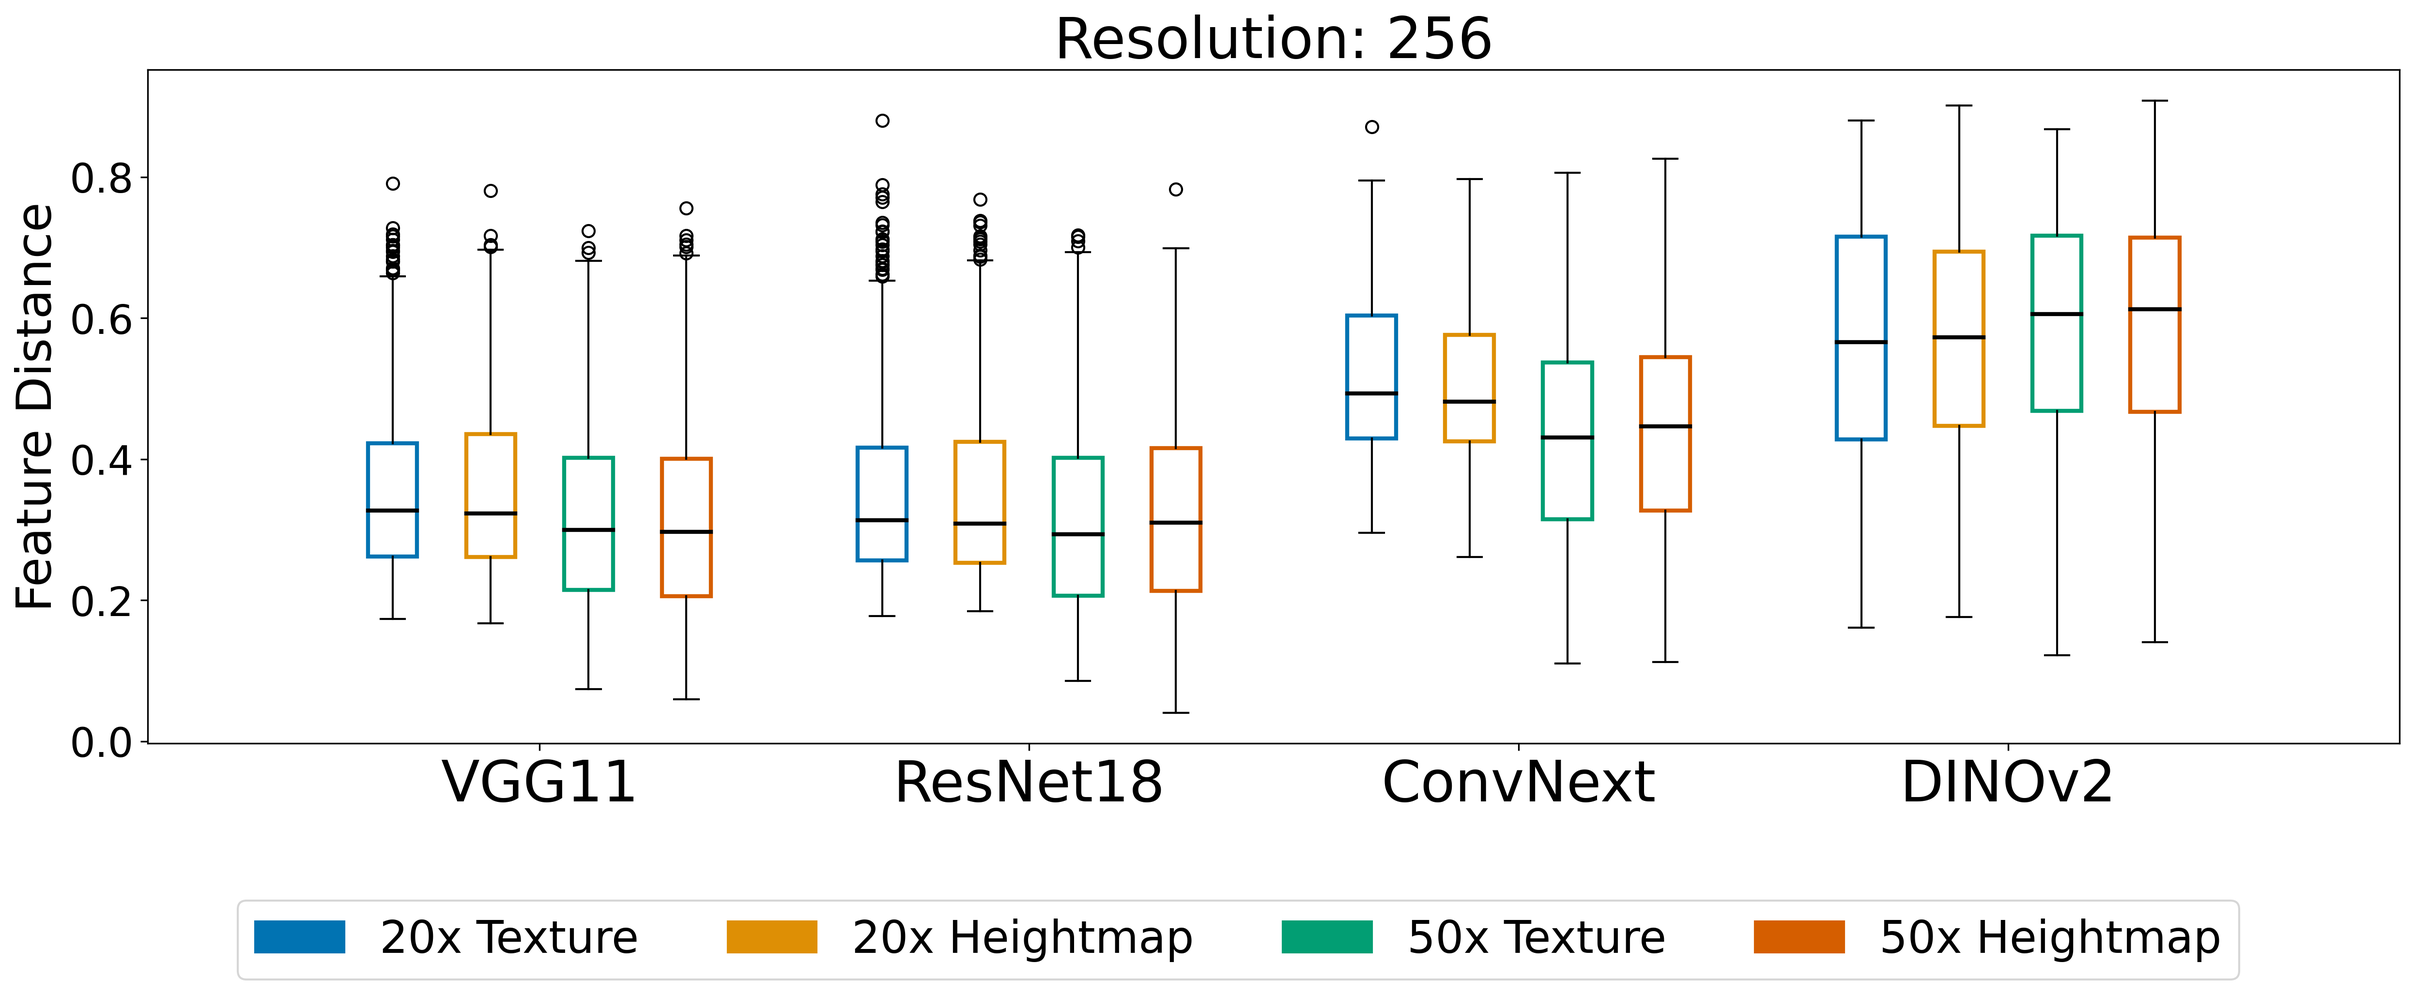
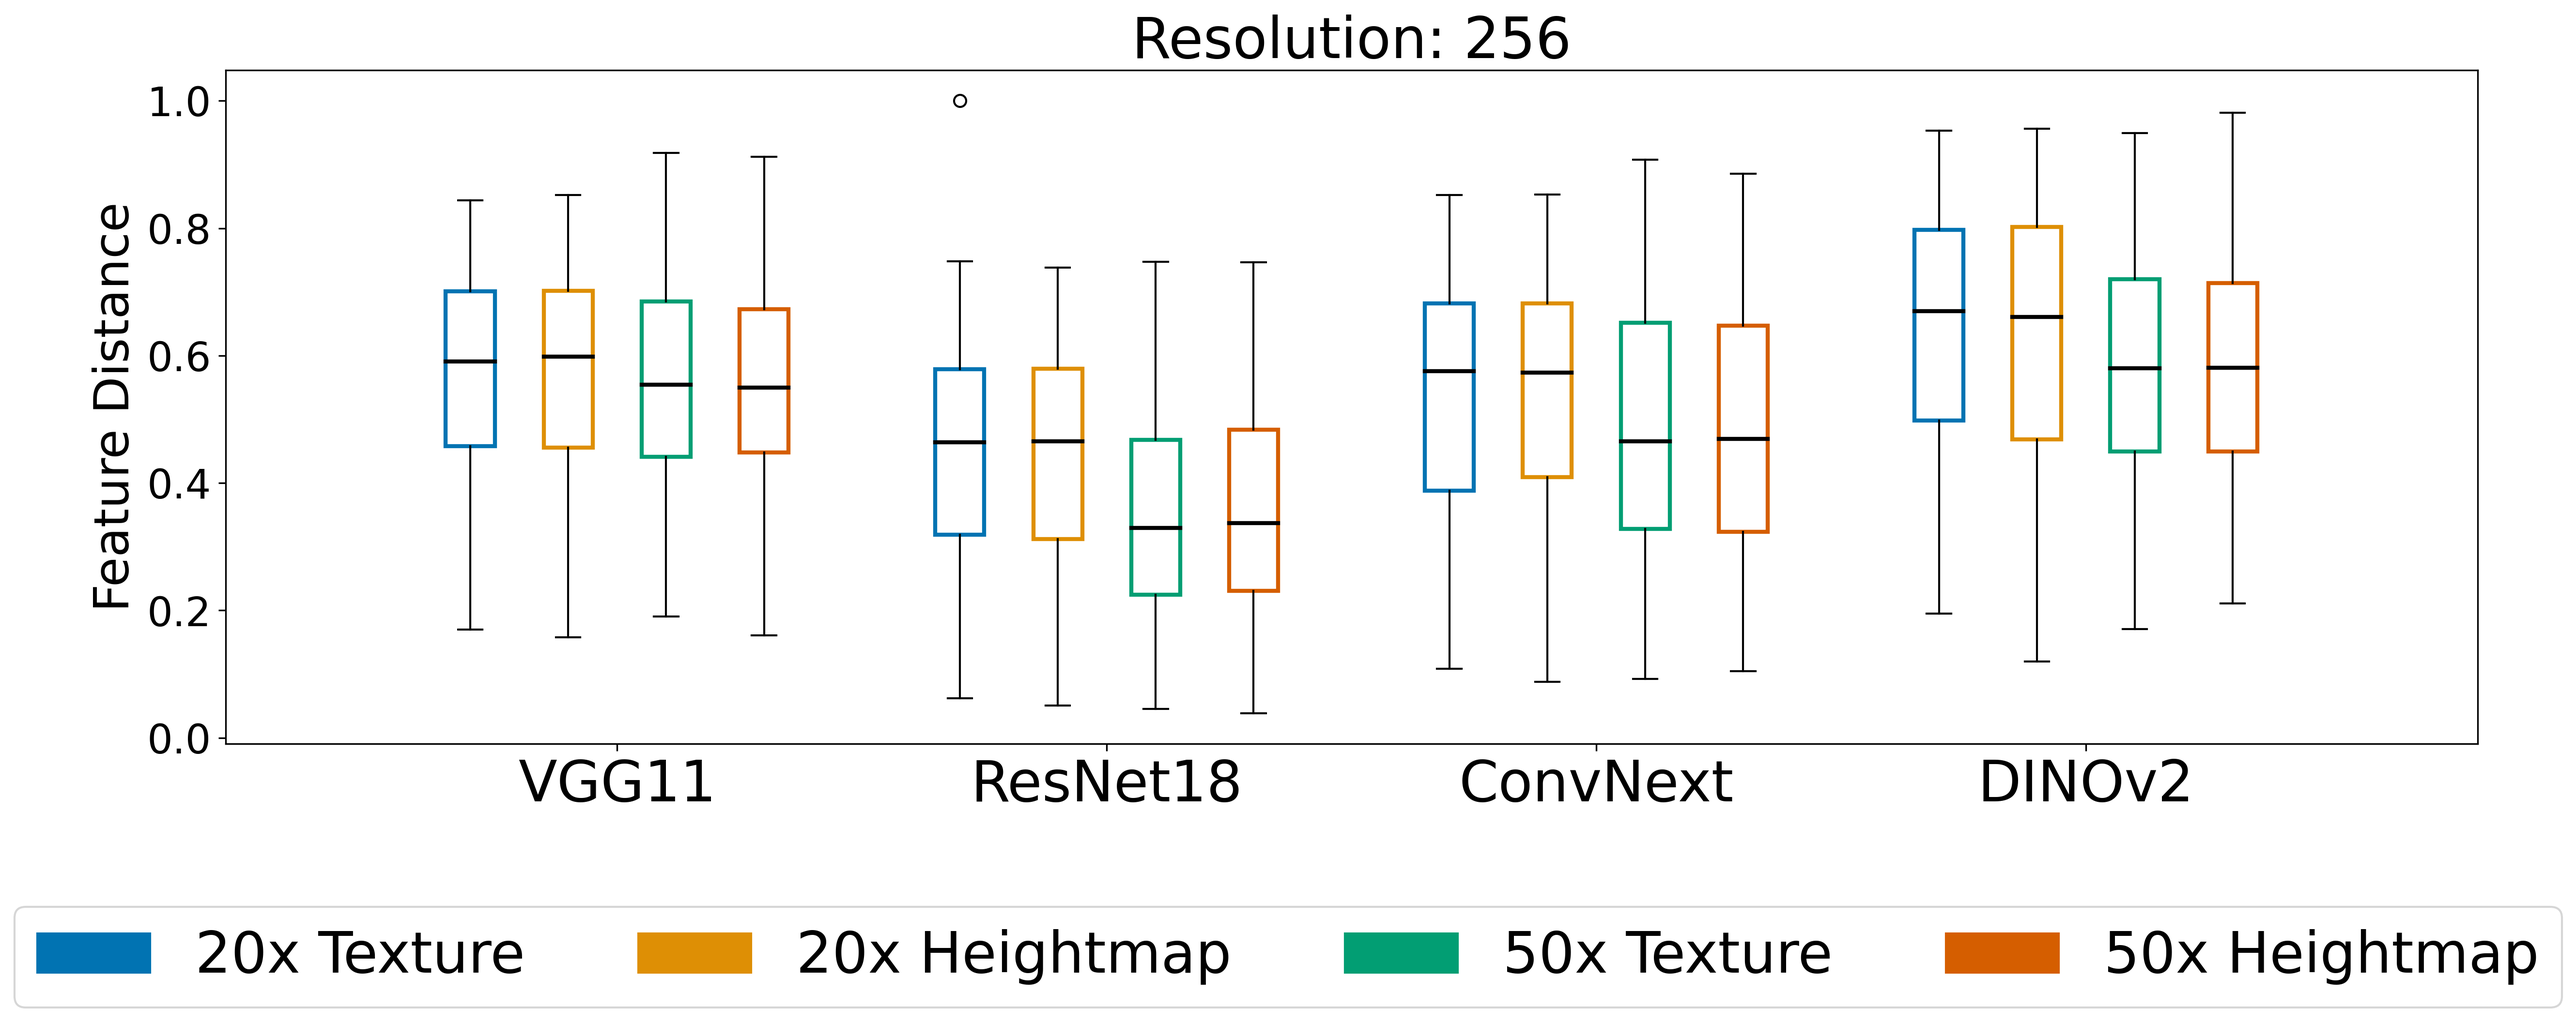
add cosine similarity

diff --git a/Visual_Feature_Extractor_and_Analyzer/main.py b/Visual_Feature_Extractor_and_Analyzer/main.py
@@ -8,6 +8,8 @@ from PIL import Image
 from tqdm import tqdm
 import argparse
 from models import *
+from tqdm import tqdm
+from torchmetrics.functional import pairwise_cosine_similarity
 
 
 def read_image_tensor(image_path):
@@ -70,16 +72,24 @@ def batch_feature_extractor(feature_extractor, preprocess, image_path_list, batc
 def distance_matrix_gpu(feature_tensor, norm_type, device):
 
     num_vectors = feature_tensor.shape[0]
-    distance_matrix = torch.zeros((num_vectors, num_vectors)).to(device)
+    
+    cosine_distance = torch.nn.CosineSimilarity(dim=2, eps=1e-6)
 
     if norm_type == "l2":
+        distance_matrix = torch.zeros((num_vectors, num_vectors)).to(device)
         distance_matrix = torch.cdist(feature_tensor, feature_tensor, p=2)
     elif norm_type == "l1":
+        distance_matrix = torch.zeros((num_vectors, num_vectors)).to(device)
         distance_matrix = torch.cdist(feature_tensor, feature_tensor, p=1)
     elif norm_type == "inf":
+        distance_matrix = torch.zeros((num_vectors, num_vectors)).to(device)
         distance_matrix = torch.cdist(feature_tensor, feature_tensor, p=0)
-
+    elif norm_type == "cosine":
+        print(f'Calculating cosine distance matrix...')
+        distance_matrix = pairwise_cosine_similarity(feature_tensor, feature_tensor)
+        
     return distance_matrix
+
 
 def find_cloest_to_mean(feature_array, image_path_list, csv_path):
     # calculate the mean
@@ -93,7 +103,7 @@ def find_cloest_to_mean(feature_array, image_path_list, csv_path):
 
     filename = image_path_list[closest_idx]
 
-    with open(f'closest_to_mean.txt', 'a') as f:
+    with open(f'closest_to_mean_cosine.txt', 'a') as f:
         content = f"{os.path.basename(csv_path[:-4])}\t{IMAGE_TYPE}\t{MODEL}\t{NORM_TYPE}\t{distances[closest_idx]:4f}\t{filename}"
 
         f.write(content + '\n')
@@ -110,7 +120,7 @@ if __name__ == "__main__":
 
     parser.add_argument("--model", choices=["resnet18", "alexnet", "convnext", "vgg11", "vit", "dinov2"], default="resnet18", help="Choose the model (default: resnet18)")
     parser.add_argument("--image_type", choices=["heightmap", "texture"], default="texture", help="Choose the image type (default: texture)")
-    parser.add_argument("--norm", choices=["l2"], default="l2", help="Choose the norm type (default: l2)")
+    parser.add_argument("--norm", choices=["l2", 'l1', 'inf', 'cosine'], default="l2", help="Choose the norm type (default: l2)")
     parser.add_argument("--csv", required=True, help="Path to the CSV file containing image information")
     parser.add_argument("--batch_size", type=int, default=10, help="Batch size for feature extraction (default: 10)")
     parser.add_argument("--data_root", default="/mnt/SSD_SATA_0/DATASET/LUA_Dataset", help="Root folder of the dataset (LUA_Dataset)")
@@ -135,8 +145,6 @@ if __name__ == "__main__":
     print(f"Image Type:\t{IMAGE_TYPE.upper()}")
     print(f'CSV FILE:\t{CSV_PATH}')
     print(f"Batch Size:\t{BATCH_SIZE}\n")
-
-    
 
     # read csv file
     CSV_PATH = os.path.join(DATA_FOLDER_ROOT, CSV_PATH)

diff --git a/Visual_Feature_Extractor_and_Analyzer/visualization.py b/Visual_Feature_Extractor_and_Analyzer/visualization.py
@@ -8,7 +8,7 @@ import seaborn as sns
 MODEL = ['resnet18', 'vgg11', 'convnext', 'dinov2']
 ZOOM = ['20x', '50x']
 IMAGE_TYPE = ['heightmap', 'texture']
-NORM_TYPE = ['l2']
+NORM_TYPE = ['cosine']
 RESOLUTION = ['256', '512', '865']
 
 def normalize(input_array):
@@ -41,7 +41,7 @@ def load_distance(resolution="256"):
                 for norm_type in NORM_TYPE:
                     filename = f"data/{resolution}_{zoom}_{image_type}_{model}_{norm_type}.npy"
                     distance = load_npy_data(filename)
-                    selected_distance = np.random.choice(distance, 1000, replace=False)
+                    selected_distance = np.random.choice(distance, 10000, replace=False)
                     distance_data.append(EXP(resolution, zoom, image_type, model, norm_type, selected_distance))
 
     return distance_data
@@ -172,7 +172,7 @@ if __name__ == "__main__":
     # ax.set_xlabel('Model', fontsize=28)
     ax.set_ylabel('Feature Distance', fontsize=24)
     ax.tick_params(axis='y', labelsize=20)
-    ax.set_title(f'Resolution: {RESOLUTION}', fontsize=28)
+    # ax.set_title(f'Resolution: {RESOLUTION}', fontsize=28)
     ax.set_xticks(positions)
     ax.set_xticklabels(['VGG11', 'ResNet18', 'ConvNext', 'DINOv2'], fontsize=28)
 
@@ -180,7 +180,7 @@ if __name__ == "__main__":
     sns.set_palette("colorblind")
     labels = ['20x Texture', '20x Heightmap', '50x Texture', '50x Heightmap']
     handles = [plt.Rectangle((0, 0), 1, 1, color=sns.color_palette()[i]) for i in range(len(labels))]
-    ax.legend(handles, labels, loc='upper left', fontsize=22, bbox_to_anchor=(0.03, -0.2), ncol=4)
+    ax.legend(handles, labels, fontsize=28, bbox_to_anchor=(1.05, -0.2), ncol=4)
     # Adjust the bottom spacing
     plt.subplots_adjust(bottom=0.3)  # Increase the whitespace below the graph
 
@@ -196,6 +196,6 @@ if __name__ == "__main__":
     plt.savefig(f"visual/feature_distribution_{RESOLUTION}.png", bbox_inches='tight', dpi=300)
 
     # Show the plot
-    plt.show()
+    # plt.show()
 
 

diff --git a/Visual_Feature_Extractor_and_Analyzer/models.py b/Visual_Feature_Extractor_and_Analyzer/models.py
@@ -12,7 +12,7 @@ from torchvision.models import vit_b_16, ViT_B_16_Weights
 def feature_extractor_resnet18():
 
     weights = ResNet18_Weights.DEFAULT
-    preprocess = weights.transforms()
+    preprocess = weights.transforms(antialias=True)
 
     model = resnet18(weights=weights)
     model.eval()
@@ -24,7 +24,7 @@ def feature_extractor_resnet18():
 def feature_extractor_alexnet():
 
     weights = AlexNet_Weights.DEFAULT
-    preprocess = weights.transforms()
+    preprocess = weights.transforms(antialias=True)
 
     model = alexnet(weights=weights)
     model.eval()
@@ -36,7 +36,7 @@ def feature_extractor_alexnet():
 def feature_extractor_convnext():
 
     weights = ConvNeXt_Tiny_Weights.DEFAULT
-    preprocess = weights.transforms()
+    preprocess = weights.transforms(antialias=True)
 
     model = convnext_tiny(weights=weights)
     model.eval()
@@ -49,7 +49,7 @@ def feature_extractor_convnext():
 def feature_extractor_vgg11():
 
     weights = VGG11_Weights.DEFAULT
-    preprocess = weights.transforms()
+    preprocess = weights.transforms(antialias=True)
 
     model = vgg11(weights=weights)
     model.eval()
@@ -61,7 +61,7 @@ def feature_extractor_vgg11():
 def feature_extractor_vit():
 
     weights = ViT_B_16_Weights.DEFAULT
-    preprocess = weights.transforms()
+    preprocess = weights.transforms(antialias=True)
 
     model = vit_b_16(weights=weights)
     model.eval()
